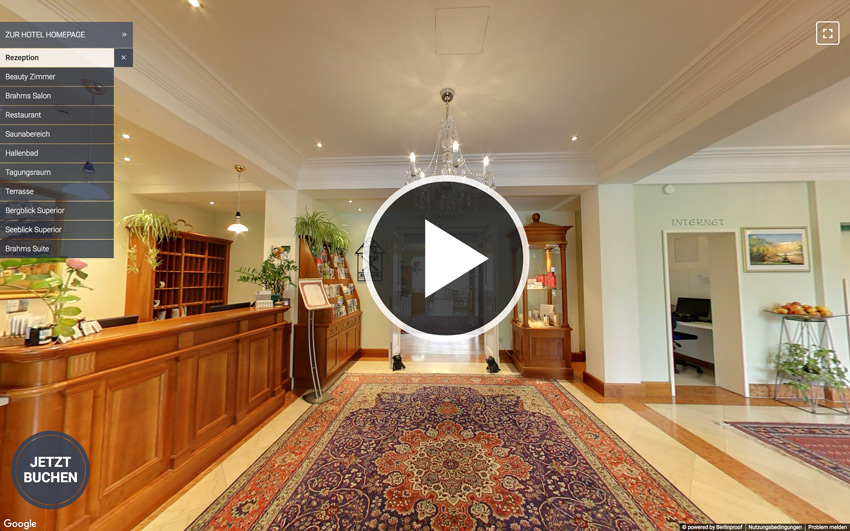
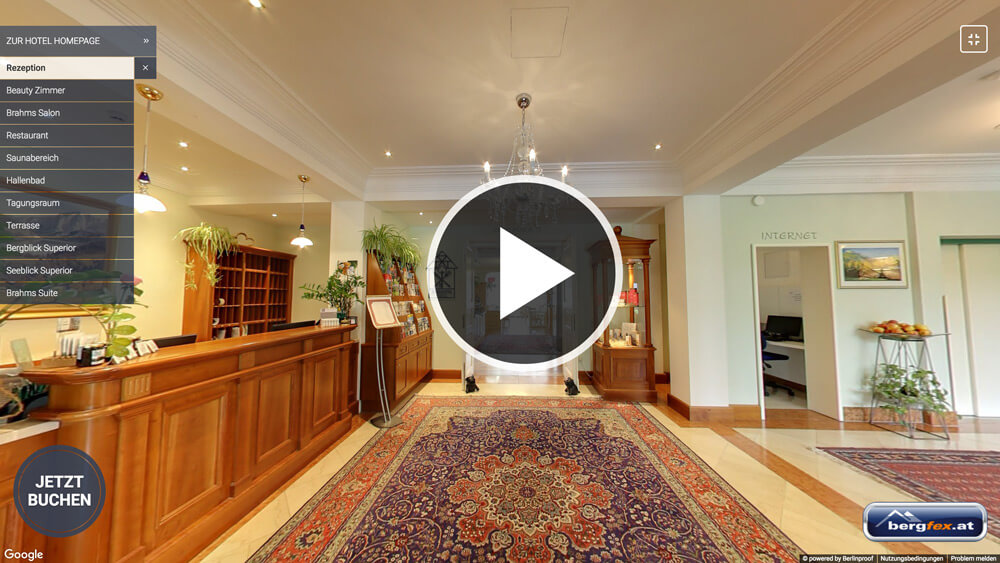
Update contact form, static images and content

diff --git a/index.html b/index.html
@@ -146,7 +146,7 @@
 					</div>
 					<div class="col s12 m6 l3">
 						<a href="/#section-tour"></a>
-						<div class="pricinghead head-aqua topcorners">
+						<div class="pricinghead head-blue topcorners">
 							360°-Tour
 						</div>
 						<div class="pricing">
@@ -156,11 +156,11 @@
 							<!-- <div class="divider"></div>
 							<img src="img/google-logo.png" style="width: 75%; height: auto; margin: 1em auto 0;" alt="Google Logo" /><h4>Street View | Trusted</h4> -->
 						</div>
-						<div class="section-link subhead-aqua">Aufmerksamkeit erregen</div>
+						<div class="section-link subhead-blue">Aufmerksamkeit erregen</div>
 					</div>
 					<div class="col s12 m6 l3">
 						<a href="/#section-indexentry"></a>
-						<div class="pricinghead head-yellow topcorners">
+						<div class="pricinghead head-blue topcorners">
 							Jahreseintrag
 						</div>
 						<div class="pricing">
@@ -168,11 +168,11 @@
 							<div class="divider"></div>
 							Lernen Sie, wie sie Ihre Unterkunft bis zu 19 Mio. Besuchern pro Monat präsentieren können.
 						</div>
-						<div class="section-link subhead-yellow">Relevanz erzeugen</div>
+						<div class="section-link subhead-blue">Relevanz erzeugen</div>
 					</div>
 					<div class="col s12 m6 l3">
 						<a href="/#section-ads-and-media"></a>
-						<div class="pricinghead head-red topcorners">
+						<div class="pricinghead head-blue topcorners">
 							360°-Ads
 						</div>
 						<div class="pricing">
@@ -180,7 +180,7 @@
 							<div class="divider"></div>
 							Entdecken Sie, wie Sie 2-3x höhere Klickraten erzielen können.
 						</div>
-						<div class="section-link subhead-red">Sichtbarkeit gewinnen</div>
+						<div class="section-link subhead-blue">Sichtbarkeit gewinnen</div>
 					</div>
 				</div>
 			</div>
@@ -263,11 +263,11 @@
 				</div>
 				<div class="row">
 					<div class="col s12 m12 l10 offset-l1">
-						<div class="video-holder video-imac">
-							<img class="video-overlay" src="img/imac_transparent.png" />
+						<div class="video-holder video-imac paused">
+							<img class="video-overlay" src="img/imac_transparent_16by9.png" />
 							<video playsinline muted loop poster="img/posterimage-imac-360tour.png" class="js-play-video" id="bgvid">
-						    <source src="video/seevilla_tour.webm" type="video/webm">
-						    <source src="video/seevilla_tour.mp4" type="video/mp4">
+						    <source src="video/seevilla.webm" type="video/webm">
+						    <source src="video/seevilla.mp4" type="video/mp4">
 							</video>
 						</div>
 					</div>
@@ -296,7 +296,7 @@
 								<dd>Erstellung der 360°-Tour</dd>
 								<dd>Erweiterung der 360°-Tour um ein Na&shy;vi&shy;ga&shy;tions&shy;element sowie Buttons zur Direkt-Verlinkung auf Ihre Web&shy;site und zur Buchungs&shy;strecke</dd>
 								<dd>Integration der 360°-Tour in Ihren bergfex Jahres&shy;eintrag</dd>
-								<dd>* Panorama Tour und Integration ist nur nach einem <a href="/#section-shooting">Panorama Shooting</a> möglich</dd>
+								<dd>Hinweis: Panorama Tour und Integration ist nur nach einem <a href="/#section-shooting">Panorama Shooting</a> möglich</dd>
 							</dl>
 						</div>
 					</div>
@@ -491,7 +491,7 @@
 							</div>
 
 							<div class="progress">
-						      <div class="indeterminate"></div>
+					      <div class="indeterminate"></div>
 						  </div>
 
 						  <span class="sendingLabel">E-Mail wird versendet ...</span>
@@ -504,12 +504,7 @@
 					<div class="col s12 m4">
 						<h5>Let's talk</h5>
 						<p>
-							Tragen Sie Ihre Kontaktmöglichkeiten und Ihren Wunschtermin in das nebenstehende Formular ein und erhalten Sie zum gewünschten Termin ein telefonisches Beratungsgespräch.
-						</p>
-
-
-						<p>
-							Gerne können Sie uns auch persönlich kontaktieren. Unsere Berater helfen Ihnen gerne.<br>
+							Am liebsten beraten wir Sie persönlich. <br/><br/>Bitte hinterlassen Sie Ihre Kontaktdaten und wir melden uns umgehend bei Ihnen.<br/>
 							<a class="btn-flat telBtn" href="tel:+493077008650"><i class="material-icons">phone</i> 030 / 77 00 86 50</a>
 						</p>
 					</div>
@@ -601,12 +596,15 @@
 
 		/* Click to play video */
 		$('.js-play-video').on('click', function() {
-			var $video = $(this).get(0);
+			var $this = $(this),
+					$video = $(this).get(0);
 			if ($video.paused === false) {
         $video.pause();
+				$this.parent().addClass('paused');
 				console.log('video paused');
 	    } else {
         $video.play();
+				$this.parent().removeClass('paused');
 				console.log('video playing');
 	    }
 	    return false;

diff --git a/css/main.css b/css/main.css
@@ -2644,17 +2644,31 @@ video.responsive-video {
   max-width: 1000px;
   z-index: 1;
 }
+.video-holder.paused video::before {
+  background: url('../img/video_play.png') center center no-repeat;
+  background-size: cover;
+  bottom: 0;
+  content: '';
+  display: block;
+  height: 15%;
+  left: 0;
+  margin: auto;
+  position: absolute;
+  right: 0;
+  top: 0;
+  width: 15%;
+  z-index: 6;
+}
 .video-holder video {
-  /* Use ratio of recorded footage 16:10 for best result */
-  height: 60.9%;
-  /*left: 3.5%;*/
+  /* Use ratio of recorded footage 16:9 for best result */
+  height: 61.8%;
   left: 0;
   right: 0;
   margin: auto;
   position: absolute;
-  top: 4.75%;
-  width: 80%;
-  z-index: 100;
+  top: 4.85%;
+  width: 93%;
+  z-index: 5;
 }
 
 .pagination li {
@@ -5504,8 +5518,7 @@ input[type=range] + .thumb {
   margin: auto;
 }
 .row.equal-heights .pricinghead {
-  /*height: 5rem;
-  line-height: 4rem;*/
+  color: #fff;
   align-items: center;
   display: flex;
   justify-content: center;
@@ -9519,8 +9532,8 @@ footer a:hover {
   width:100%;
 }
 
-.pricinghead{
-  color:#fff;
+.pricinghead {
+  /*color:#fff;*/
   font-size:24px;
   padding:5px 0px 3px 0px;
   text-align:center;
@@ -9530,12 +9543,11 @@ footer a:hover {
 }
 
 .section-link {
-  background-color: #444;
   color: #fff;
   border-bottom-left-radius:10px;
   border-bottom-right-radius:10px;
   font-size:14px;
-  font-weight: 100;
+  /*font-weight: 100;*/
   padding:15px;
   text-align:center;
   text-transform: uppercase;

diff --git a/php/contact.php b/php/contact.php
@@ -4,7 +4,7 @@ require( 'class.phpmailer.php' );
 require( 'class.smtp.php' );
 
 
-$receiverMail = 'daniel.benecke@sternzeit.de';
+$receiverMail = 'eva.schneider@sternzeit.de';
 $receiverName = 'nexpics';
 $logFile = __DIR__.'/contact.log';
 $delay = 0;
@@ -117,6 +117,11 @@ if( strtolower( $_SERVER[ 'REQUEST_METHOD' ] ) == 'post' ) {
           ? ''
           : $_REQUEST[ 'message' ];
 
+    // Timestamp in mail
+    date_default_timezone_set("Europe/Berlin");
+    $timestamp = time();
+    $datum = date("d.m.Y",$timestamp);
+    $uhrzeit = date("H:i",$timestamp);
 
     if( hasLog( $log ) ) {
 
@@ -130,26 +135,24 @@ if( strtolower( $_SERVER[ 'REQUEST_METHOD' ] ) == 'post' ) {
     $mail = new PHPMailer();
 
     $mail->IsSMTP();
-    $mail->Host     = "smtp.strato.de";
+    $mail->Host     = "smtp.gmail.com";
     $mail->SMTPAuth = true;
-    $mail->Username = "trusted@berlinproof.de";
-    $mail->Password = "Pk1mnIri!";
+    $mail->Username = "info@nexpics.com";
+    $mail->Password = "mmzovsllkscmotes";
     $mail->SMTPSecure = 'tls';
     $mail->Port = 587;
     $mail->CharSet = 'utf-8';
 
     $mail->From     = "info@nexpics.com";
     $mail->FromName = "nexpics GmbH";
-    $mail->AddAddress( $receiverMail, $receiverName );
-    $mail->AddReplyTo( $email, ( $vorname . " " . $nachname ) );
+    $mail->AddAddress( $email, $vorname . " " . $nachname );
+    $mail->AddReplyTo( "info@nexpics.com", ( $receiverName ) );
 
 
     $mail->WordWrap = 100;
     $mail->Subject  =  "[ $datum | $uhrzeit ] ANFRAGE Google Street View | Trusted";
-    $mail->Body     =  "Google Street View | Trusted Anfrage
-
-    Folgende Informationen wurden vom Kunden übermittelt:
-
+    $mail->Body     =  "Google Street View | Trusted Anfrage\n\n
+    Folgende Informationen wurden vom Kunden übermittelt:\n\n
     Unternehmen: $unternehmen
     Vorname: $vorname
     Nachname: $nachname
@@ -159,11 +162,9 @@ if( strtolower( $_SERVER[ 'REQUEST_METHOD' ] ) == 'post' ) {
     Telefon: $tel
     Fax: $fax
     Mail: $email
-    Web: $web
-
-    Nachricht: $message
-
-    ---
+    Web: $web\n
+    Nachricht: $message\n
+    –––\n
     Die Anfrage wurde am $datum um $uhrzeit erstellt.";
 
 
@@ -172,10 +173,10 @@ if( strtolower( $_SERVER[ 'REQUEST_METHOD' ] ) == 'post' ) {
     $mail = new PHPMailer();
 
     $mail->IsSMTP();
-    $mail->Host     = "smtp.strato.de";
+    $mail->Host     = "smtp.gmail.com";
     $mail->SMTPAuth = true;
-    $mail->Username = "trusted@berlinproof.de";
-    $mail->Password = "Pk1mnIri!";
+    $mail->Username = "info@nexpics.com";
+    $mail->Password = "mmzovsllkscmotes";
     $mail->SMTPSecure = 'tls';
     $mail->Port = 587;
     $mail->CharSet = 'utf-8';
@@ -189,12 +190,8 @@ if( strtolower( $_SERVER[ 'REQUEST_METHOD' ] ) == 'post' ) {
     $mail->WordWrap = 100;
     $mail->Subject  =  "[ $datum | $uhrzeit ] ANFRAGE Google Street View | Trusted";
     $mail->Body     =  "Google Street View | Trusted Bestellung
-
-    Sehr geehrte Damen und Herren,
-
-    wir bedanken uns für Ihre Anfrage bezüglich eines Google Street View | Trusted Fotoshootings für Ihr Hotel.
-
-    Einer unserer Vertriebsmitarbeiter wird sich in Kürze bei Ihnen melden.";
+    \n\nSehr geehrte Damen und Herren, \n\nwir bedanken uns für Ihre Anfrage bezüglich eines Google Street View | Trusted Fotoshootings für Ihr Hotel.
+    \nEiner unserer Vertriebsmitarbeiter wird sich in Kürze bei Ihnen melden.";
 
 
     $mail->Send();
